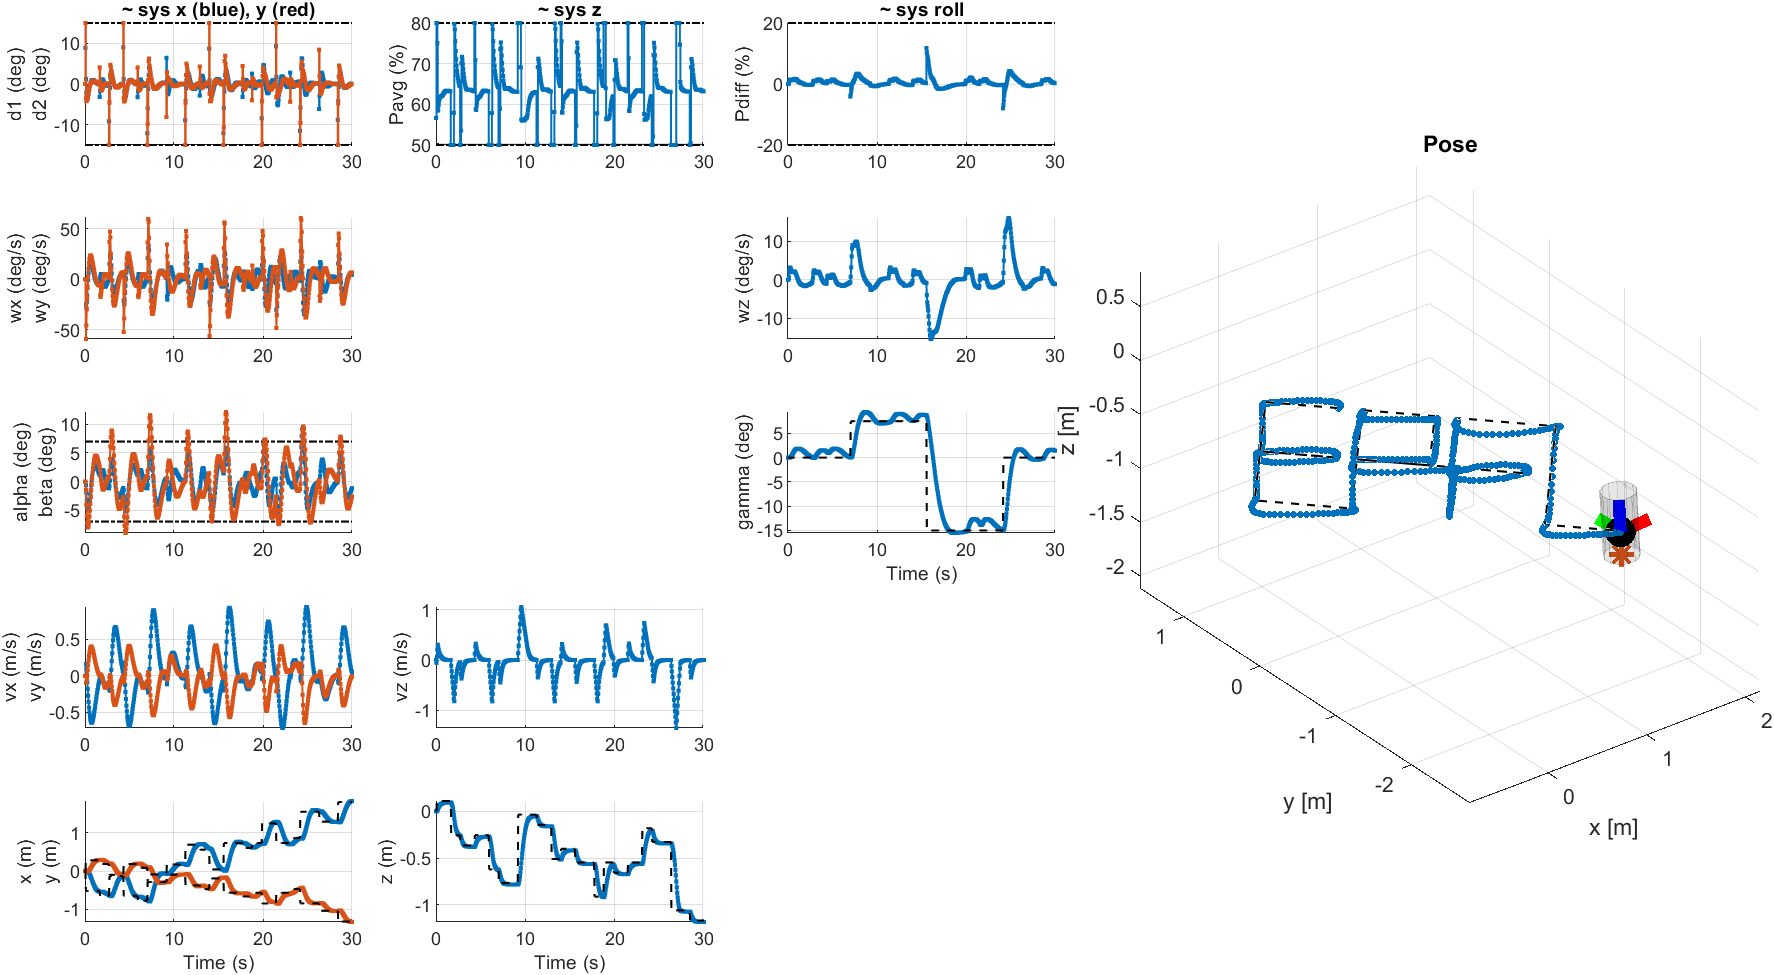
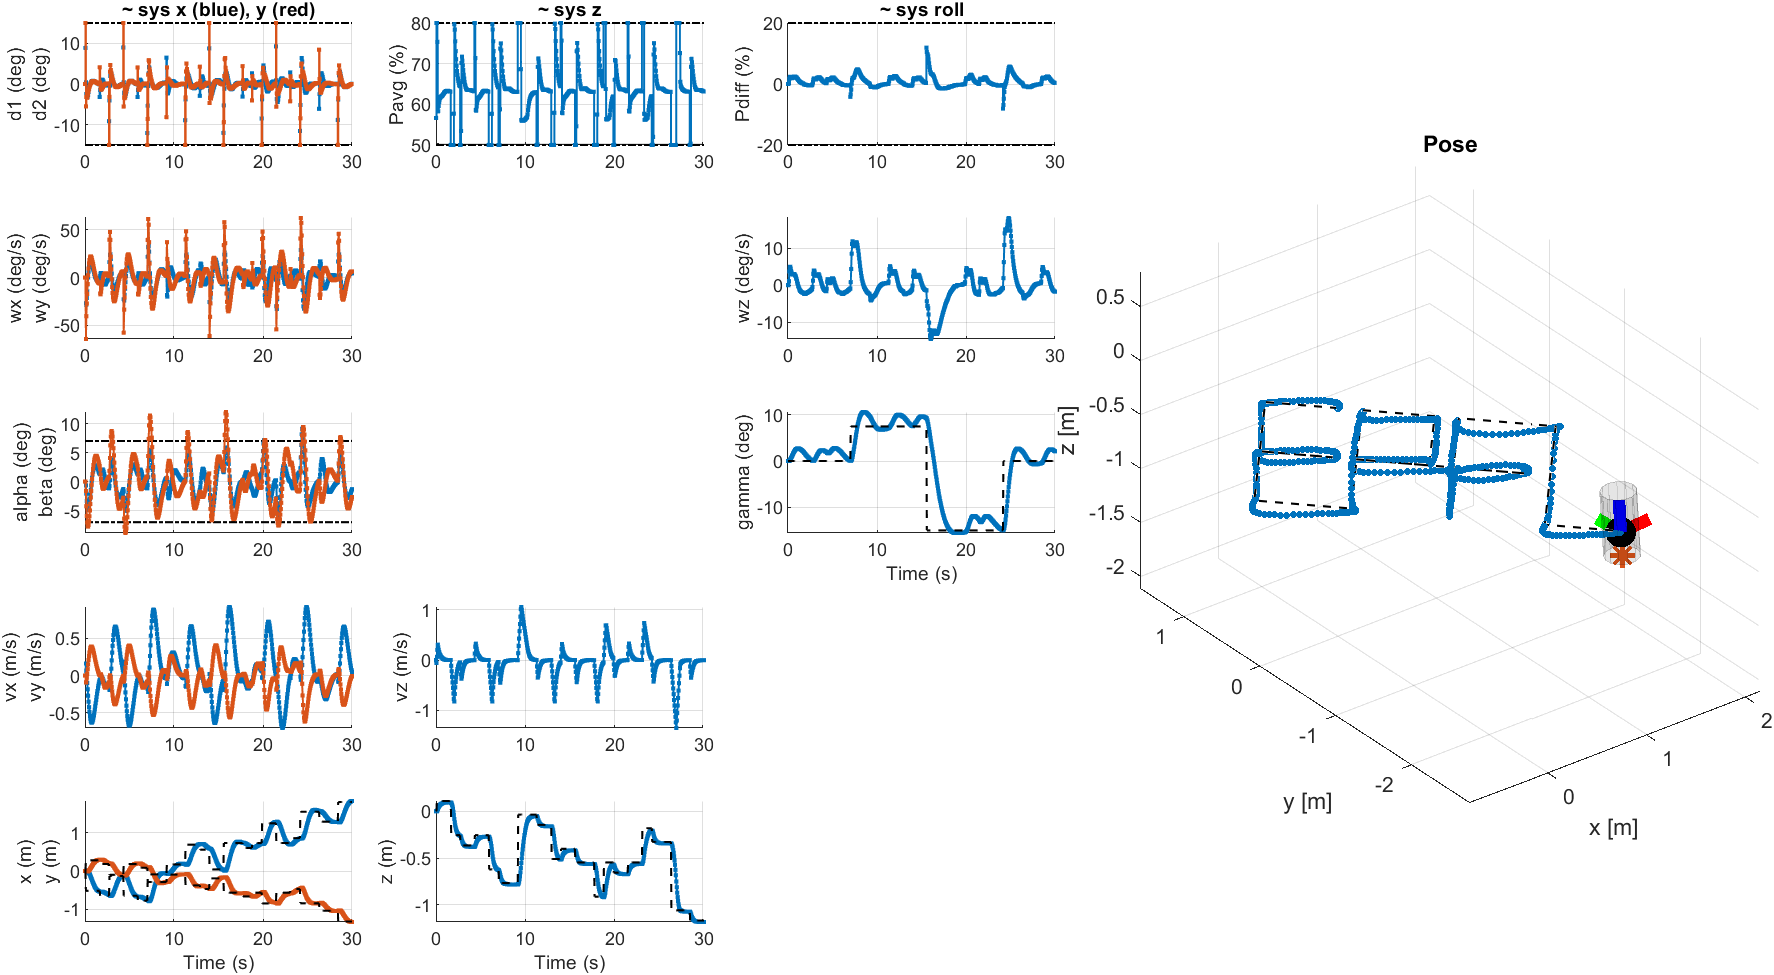
Graph 5.1

diff --git a/rocket_project/Deliverable_5_1/MpcControl_roll.m b/rocket_project/Deliverable_5_1/MpcControl_roll.m
@@ -33,10 +33,28 @@ classdef MpcControl_roll < MpcControlBase
             %       the DISCRETE-TIME MODEL of your system
             
             % SET THE PROBLEM CONSTRAINTS con AND THE OBJECTIVE obj HERE
-            Q = 10*eye(nx);
-%             Q(1,1) = 10*Q(1,1);   % speed
-            Q(2,2) = Q(2,2)*10;     % position
-            R = eye(nu);
+
+            Hu = [1; -1];
+            hu = [20; 20];
+
+            Q = diag([1, 10]);      % good EPFL
+            R = diag(0.01);          % good EPFL
+
+             % K is the LQR controller, P is the final cost
+            [K,Pf,~] = dlqr(mpc.A, mpc.B, Q, R);
+            K = -K;
+            Ak = mpc.A+mpc.B*K;
+
+            % the combined constraints of state and input with controller K
+            % in closed loop
+            Hxu = Hu*K;
+            hxu = hu;
+
+            % the terminal set of the controller K in closed loop
+            Poly_xu = polytope(Hxu, hxu);
+            term_set = max_contr_invar_set(Poly_xu, Ak);
+            [Hxf, hxf] = double(term_set); % terminal constraint
+
             [~,Pf,~] = dlqr(mpc.A, mpc.B, Q, R);
             obj = 0;
             con = [];
@@ -45,6 +63,7 @@ classdef MpcControl_roll < MpcControlBase
                 obj   = obj + (X(:,k)-x_ref)'*Q*(X(:,k)-x_ref) + (U(:,k)-u_ref)'*R*(U(:,k)-u_ref);
             end
             obj = obj + (X(:,N)-x_ref)'*Pf*(X(:,N)-x_ref);
+            con = [con, Hxf*X(:,N) <= hxf + Hxf*x_ref];
             
             % YOUR CODE HERE YOUR CODE HERE YOUR CODE HERE YOUR CODE HERE
             %%%%%%%%%%%%%%%%%%%%%%%%%%%%%%%%%%%%%%%%%%%%%%%%%%%%%%%%%%%%%%%

diff --git a/rocket_project/Deliverable_4_2/MpcControl_x.m b/rocket_project/Deliverable_4_2/MpcControl_x.m
@@ -40,8 +40,8 @@ classdef MpcControl_x < MpcControlBase
             hu = [deg2rad(15); deg2rad(15)];
 
             % costs for the LQR controller
-            Q = diag([1, 1, 1, 10]);    % sharp EPFL
-            R = diag(1);                % sharp EPFL
+%             Q = diag([1, 1, 1, 10]);    % sharp EPFL
+%             R = diag(1);                % sharp EPFL
             Q = diag([1, 1, 0.2, 10]);  % good EPFL
             R = diag(10);               % good EPFL
 %             Q = diag([5, 5, 1, 100]); % ~weights from 3.1
@@ -74,7 +74,7 @@ classdef MpcControl_x < MpcControlBase
                 obj   = obj + (X(:,k)-x_ref)'*Q*(X(:,k)-x_ref) + (U(:,k)-u_ref)'*R*(U(:,k)-u_ref) + E(:,k)'*S*E(:,k);
             end
             obj = obj + (X(:,N)-x_ref)'*Pf*(X(:,N)-x_ref);
-            con = [con, Hxf*X(:,N) <= hxf];
+            con = [con, Hxf*X(:,N) <= hxf+Hxf*x_ref];
             
             % YOUR CODE HERE YOUR CODE HERE YOUR CODE HERE YOUR CODE HERE
             %%%%%%%%%%%%%%%%%%%%%%%%%%%%%%%%%%%%%%%%%%%%%%%%%%%%%%%%%%%%%%%
@@ -116,7 +116,6 @@ classdef MpcControl_x < MpcControlBase
             Q = eye(nx);
             obj = (xs - ref.*[0;0;0;1])'*Q*(xs - ref.*[0;0;0;1]);
             con = [xs == mpc.A*xs + mpc.B*us, Hx*xs <= hx, Hu*us <= hu];
-%             con = [xs - ref.*[0;0;0;1] == mpc.A*(xs- ref.*[0;0;0;1]) + mpc.B*us, Hx*(xs- ref.*[0;0;0;1]) <= hx, Hu*us <= hu];
             % YOUR CODE HERE YOUR CODE HERE YOUR CODE HERE YOUR CODE HERE
             %%%%%%%%%%%%%%%%%%%%%%%%%%%%%%%%%%%%%%%%%%%%%%%%%%%%%%%%%%%%%%%
             

diff --git a/rocket_project/Deliverable_4_2/MpcControl_y.m b/rocket_project/Deliverable_4_2/MpcControl_y.m
@@ -41,8 +41,8 @@ classdef MpcControl_y < MpcControlBase
             hu = [deg2rad(15); deg2rad(15)]; % constraint on the input d1
 
             % costs for the LQR controller
-            Q = diag([1, 1, 1, 10]);    % sharp EPFL
-            R = diag(1);                % sharp EPFL
+%             Q = diag([1, 1, 1, 10]);    % sharp EPFL
+%             R = diag(1);                % sharp EPFL
             Q = diag([1, 1, 0.2, 10]);  % good EPFL
             R = diag(10);               % good EPFL
 %             Q = diag([5, 5, 1, 100]); % ~weights from 3.1
@@ -75,7 +75,7 @@ classdef MpcControl_y < MpcControlBase
                 obj   = obj + (X(:,k)-x_ref)'*Q*(X(:,k)-x_ref) + (U(:,k)-u_ref)'*R*(U(:,k)-u_ref) + E(:,k)'*S*E(:,k);
             end
             obj = obj + (X(:,N)-x_ref)'*Pf*(X(:,N)-x_ref);
-            con = [con, Hxf*X(:,N) <= hxf];
+            con = [con, Hxf*X(:,N) <= hxf+Hxf*x_ref];
            
             
             % YOUR CODE HERE YOUR CODE HERE YOUR CODE HERE YOUR CODE HERE
@@ -118,7 +118,7 @@ classdef MpcControl_y < MpcControlBase
             Q = eye(nx);
             obj = (xs - ref.*[0;0;0;1])'*Q*(xs - ref.*[0;0;0;1]);
             con = [xs == mpc.A*xs + mpc.B*us, Hx*xs <= hx, Hu*us <= hu];
-%             con = [xs - ref.*[0;0;0;1] == mpc.A*(xs- ref.*[0;0;0;1]) + mpc.B*us, Hx*(xs- ref.*[0;0;0;1]) <= hx, Hu*us <= hu];
+
             % YOUR CODE HERE YOUR CODE HERE YOUR CODE HERE YOUR CODE HERE
             %%%%%%%%%%%%%%%%%%%%%%%%%%%%%%%%%%%%%%%%%%%%%%%%%%%%%%%%%%%%%%%
             

diff --git a/rocket_project/Deliverable_4_2/MpcControl_z.m b/rocket_project/Deliverable_4_2/MpcControl_z.m
@@ -51,8 +51,8 @@ classdef MpcControl_z < MpcControlBase
             hu = [80-56.66667; -(50-56.66667)];
 
             % costs for the LQR controller
-            Q = diag([10, 1000]);   % sharp EPFL
-            R = diag(1);            % sharp EPFL
+%             Q = diag([10, 1000]);   % sharp EPFL
+%             R = diag(1);            % sharp EPFL
             Q = diag([10, 200]);    % good EPFL
             R = diag(0.0001);       % good EPFL
 %             Q = diag([5, 700]);   % ~weights from 3.1
@@ -83,7 +83,7 @@ classdef MpcControl_z < MpcControlBase
                 obj   = obj + (X(:,k)-x_ref)'*Q*(X(:,k)-x_ref) + (U(:,k)-u_ref)'*R*(U(:,k)-u_ref);
             end
             obj = obj + (X(:,N)-x_ref)'*Pf*(X(:,N)-x_ref);
-            con = [con, Hxf*X(:,N) <= hxf];
+            con = [con, Hxf*X(:,N) <= hxf + Hxf*x_ref];
             
             % YOUR CODE HERE YOUR CODE HERE YOUR CODE HERE YOUR CODE HERE
             %%%%%%%%%%%%%%%%%%%%%%%%%%%%%%%%%%%%%%%%%%%%%%%%%%%%%%%%%%%%%%%
@@ -128,9 +128,7 @@ classdef MpcControl_z < MpcControlBase
 
             Qt_pos = 1;  % Q target position
             obj = (mpc.C*xs-ref)'*Qt_pos*(mpc.C*xs-ref);
-%             obj = (mpc.C*(xs-ref))'*Qt_pos*(mpc.C*(xs-ref));
             con = [xs == mpc.A*xs + mpc.B*us, Hu*us <= hu];
-%             con = [xs-ref == mpc.A*(xs-ref) + mpc.B*us, Hu*us <= hu];
             
             % YOUR CODE HERE YOUR CODE HERE YOUR CODE HERE YOUR CODE HERE
             %%%%%%%%%%%%%%%%%%%%%%%%%%%%%%%%%%%%%%%%%%%%%%%%%%%%%%%%%%%%%%%

diff --git a/rocket_project/Deliverable_5_1/MpcControl_z.m b/rocket_project/Deliverable_5_1/MpcControl_z.m
@@ -50,24 +50,11 @@ classdef MpcControl_z < MpcControlBase
             Hu = [1; -1]; hu = [80-56.66667; -(50-56.66667)];
 
             % costs for the LQR controller
-            Q = 10.*eye(nx);
-            Q(1,1) = Q(1,1)*1;      % speed
-            Q(2,2) = Q(2,2)*100;   % position
-            R = eye(nu);
+            Q = diag([10, 200]);    % good EPFL
+            R = diag(0.0001);       % good EPFL
 
             % K is the LQR controller, P is the final cost
             [~,Pf,~] = dlqr(mpc.A, mpc.B, Q, R);
-%             K = -K;
-%             Ak = mpc.A+mpc.B*K;
-
-            % the combined constraints of state and input with controller K
-            % in closed loop
-%             Hxu = Hu*K; hxu = hu;
-
-            % the terminal set of the controller K in closed loop
-%             Poly_xu = polytope(Hxu, hxu);
-%             term_set = max_contr_invar_set(Poly_xu, Ak);
-%             [Hxf, hxf] = double(term_set); % terminal constraint
 
             obj = 0; con = [];
             for k = 1:N-1
@@ -75,7 +62,6 @@ classdef MpcControl_z < MpcControlBase
                 obj = obj + (X(:,k)-x_ref)'*Q*(X(:,k)-x_ref) + (U(:,k)-u_ref)'*R*(U(:,k)-u_ref);
             end
             obj = obj + (X(:,N)-x_ref)'*Pf*(X(:,N)-x_ref);
-%             con = [con, Hxf*X(:,N) <= hxf];
             
             % YOUR CODE HERE YOUR CODE HERE YOUR CODE HERE YOUR CODE HERE
             %%%%%%%%%%%%%%%%%%%%%%%%%%%%%%%%%%%%%%%%%%%%%%%%%%%%%%%%%%%%%%%

diff --git a/rocket_project/Deliverable_4_2/MpcControl_roll.m b/rocket_project/Deliverable_4_2/MpcControl_roll.m
@@ -37,8 +37,8 @@ classdef MpcControl_roll < MpcControlBase
             Hu = [1; -1];
             hu = [20; 20];
 
-            Q = diag([10, 100]);    % sharp EPFL
-            R = diag(1);            % sharp EPFL
+%             Q = diag([10, 100]);    % sharp EPFL
+%             R = diag(1);            % sharp EPFL
             Q = diag([1, 10]);      % good EPFL
             R = diag(0.01);          % good EPFL
 %             Q = diag([1, 50]);    % ~weights from 3.1
@@ -66,7 +66,7 @@ classdef MpcControl_roll < MpcControlBase
                 obj   = obj + (X(:,k)-x_ref)'*Q*(X(:,k)-x_ref) + (U(:,k)-u_ref)'*R*(U(:,k)-u_ref);
             end
             obj = obj + (X(:,N)-x_ref)'*Pf*(X(:,N)-x_ref);
-            con = [con, Hxf*X(:,N) <= hxf];
+            con = [con, Hxf*X(:,N) <= hxf + Hxf*x_ref];
 
             % YOUR CODE HERE YOUR CODE HERE YOUR CODE HERE YOUR CODE HERE
             %%%%%%%%%%%%%%%%%%%%%%%%%%%%%%%%%%%%%%%%%%%%%%%%%%%%%%%%%%%%%%%
@@ -101,7 +101,6 @@ classdef MpcControl_roll < MpcControlBase
             Q = eye(nx);
             obj = (xs - ref.*[0;1])'*Q*(xs - ref.*[0;1]);
             con = [xs == mpc.A*xs + mpc.B*us, us >= -20, us <= 20];
-%             con = [xs-ref == mpc.A*(xs-ref) + mpc.B*us, us >= -20, us <= 20];
             % YOUR CODE HERE YOUR CODE HERE YOUR CODE HERE YOUR CODE HERE
             %%%%%%%%%%%%%%%%%%%%%%%%%%%%%%%%%%%%%%%%%%%%%%%%%%%%%%%%%%%%%%%
             

diff --git a/rocket_project/Deliverable_5_1/MpcControl_x.m b/rocket_project/Deliverable_5_1/MpcControl_x.m
@@ -40,10 +40,9 @@ classdef MpcControl_x < MpcControlBase
             hu = [deg2rad(15); deg2rad(15)];
 
             % costs for the LQR controller
-            Q = 1*eye(nx);
-%             Q(3,3) = Q(3,3)*0.2;  % speed
-            Q(4,4) = Q(4,4)*10;     % position
-            R = eye(nu);
+            Q = diag([1, 1, 0.2, 10]);  % good EPFL
+            R = diag(10);               % good EPFL
+
             S = 1*eye(2);         % slack - doesn't seem to do a diff with 1 or 100
            
             % K is the LQR controller, P is the final cost
@@ -72,7 +71,7 @@ classdef MpcControl_x < MpcControlBase
                 obj   = obj + (X(:,k)-x_ref)'*Q*(X(:,k)-x_ref) + (U(:,k)-u_ref)'*R*(U(:,k)-u_ref) + E(:,k)'*S*E(:,k);
             end
             obj = obj + (X(:,N)-x_ref)'*Pf*(X(:,N)-x_ref);
-            con = [con, Hxf*X(:,N) <= hxf];
+            con = [con, Hxf*X(:,N) <= hxf+Hxf*x_ref];
             
             % YOUR CODE HERE YOUR CODE HERE YOUR CODE HERE YOUR CODE HERE
             %%%%%%%%%%%%%%%%%%%%%%%%%%%%%%%%%%%%%%%%%%%%%%%%%%%%%%%%%%%%%%%

diff --git a/rocket_project/Deliverable_5_1/MpcControl_y.m b/rocket_project/Deliverable_5_1/MpcControl_y.m
@@ -41,10 +41,8 @@ classdef MpcControl_y < MpcControlBase
             hu = [deg2rad(15); deg2rad(15)]; % constraint on the input d1
 
             % costs for the LQR controller
-            Q = 1*eye(nx);
-%             Q(3,3) = Q(3,3)*0.2;  % speed
-            Q(4,4) = Q(4,4)*10;     % position
-            R = eye(nu);
+            Q = diag([1, 1, 0.2, 10]);  % good EPFL
+            R = diag(10);               % good EPFL
             S = 1*eye(2);         % slack - doesn't seem to do a diff with 1 or 100
           
             % K is the LQR controller, P is the final cost
@@ -73,7 +71,7 @@ classdef MpcControl_y < MpcControlBase
                 obj   = obj + (X(:,k)-x_ref)'*Q*(X(:,k)-x_ref) + (U(:,k)-u_ref)'*R*(U(:,k)-u_ref) + E(:,k)'*S*E(:,k);
             end
             obj = obj + (X(:,N)-x_ref)'*Pf*(X(:,N)-x_ref);
-            con = [con, Hxf*X(:,N) <= hxf];
+            con = [con, Hxf*X(:,N) <= hxf+Hxf*x_ref];
            
             
             % YOUR CODE HERE YOUR CODE HERE YOUR CODE HERE YOUR CODE HERE

diff --git a/rocket_project/Deliverable_5_1/Deliverable_5_1.m b/rocket_project/Deliverable_5_1/Deliverable_5_1.m
@@ -33,17 +33,18 @@ mpc = rocket.merge_lin_controllers(xs, us, mpc_x, mpc_y, mpc_z, mpc_roll);
 % U_opt(:,end+1) = nan;
 % ph = rocket.plotvis(T_opt, X_opt, U_opt, ref4); % Plot as usual
 
+rocket.mass = 5.794; % Manipulate mass for simulation
+
 % Setup reference function
 ref = @(t_, x_) ref_EPFL(t_);
-rocket.mass = 1.794; % Manipulate mass for simulation
 
 % Simulate
 Tf = 30;
 x0 = zeros(12,1);
-% [T, X, U, Ref] = rocket.simulate(x0, Tf, @mpc.get_u, ref);
 [T, X, U, Ref, Z_hat] = rocket.simulate_est_z(x0, Tf, @mpc.get_u, ref, mpc_z, sys_z);
-% plot(linspace(0.05,30,601),Z_hat); figure
 
 % Visualize
 rocket.anim_rate = 10; % Increase this to make the animation faster
 ph = rocket.plotvis(T, X, U, Ref);
+ph.fig.Name = 'Merged lin. MPC in nonlinear simulation with mass compensation'; % Set a figure title
+exportgraphics(ph.fig, "Deliverable_5_1/Figures/5.1_with_mass_compensation.png")

diff --git a/rocket_project/Deliverable_4_2/Deliverable_4_2.m b/rocket_project/Deliverable_4_2/Deliverable_4_2.m
@@ -57,3 +57,12 @@ ph = rocket.plotvis(T, X, U, Ref);
 ph.fig.Name = 'Merged lin. MPC in nonlinear simulation'; % Set a figure title
 
 exportgraphics(ph.fig, "Deliverable_4_2/Figures/4.2_tracking_EPFL.png")
+
+%% ===== Deliverable 5.1 with mass ======
+rocket.mass = 1.794; % Manipulate mass for simulation
+[T, X, U, Ref] = rocket.simulate(x0, Tf, @mpc.get_u, ref);
+% Visualize
+rocket.anim_rate = 10; % Increase this to make the animation faster
+ph = rocket.plotvis(T, X, U, Ref);
+ph.fig.Name = 'Merged lin. MPC in nonlinear simulation with mass offset'; % Set a figure title
+exportgraphics(ph_4.fig, "Deliverable_5_1/Figures/5.1_without_mass_compensation.png")

diff --git a/rocket_project/Deliverable_4_1/MpcControl_roll.m b/rocket_project/Deliverable_4_1/MpcControl_roll.m
@@ -61,7 +61,7 @@ classdef MpcControl_roll < MpcControlBase
                 obj   = obj + (X(:,k)-x_ref)'*Q*(X(:,k)-x_ref) + (U(:,k)-u_ref)'*R*(U(:,k)-u_ref);
             end
             obj = obj + (X(:,N)-x_ref)'*Pf*(X(:,N)-x_ref);
-            con = [con, Hxf*X(:,N) <= hxf];
+            con = [con, Hxf*X(:,N) <= hxf + Hxf*x_ref];
             
             % YOUR CODE HERE YOUR CODE HERE YOUR CODE HERE YOUR CODE HERE
             %%%%%%%%%%%%%%%%%%%%%%%%%%%%%%%%%%%%%%%%%%%%%%%%%%%%%%%%%%%%%%%

diff --git a/rocket_project/Deliverable_4_1/MpcControl_z.m b/rocket_project/Deliverable_4_1/MpcControl_z.m
@@ -79,7 +79,7 @@ classdef MpcControl_z < MpcControlBase
                 obj   = obj + (X(:,k)-x_ref)'*Q*(X(:,k)-x_ref) + (U(:,k)-u_ref)'*R*(U(:,k)-u_ref);
             end
             obj = obj + (X(:,N)-x_ref)'*Pf*(X(:,N)-x_ref);
-            con = [con, Hxf*X(:,N) <= hxf];
+            con = [con, Hxf*X(:,N) <= hxf + Hxf*x_ref];
             
             % YOUR CODE HERE YOUR CODE HERE YOUR CODE HERE YOUR CODE HERE
             %%%%%%%%%%%%%%%%%%%%%%%%%%%%%%%%%%%%%%%%%%%%%%%%%%%%%%%%%%%%%%%
